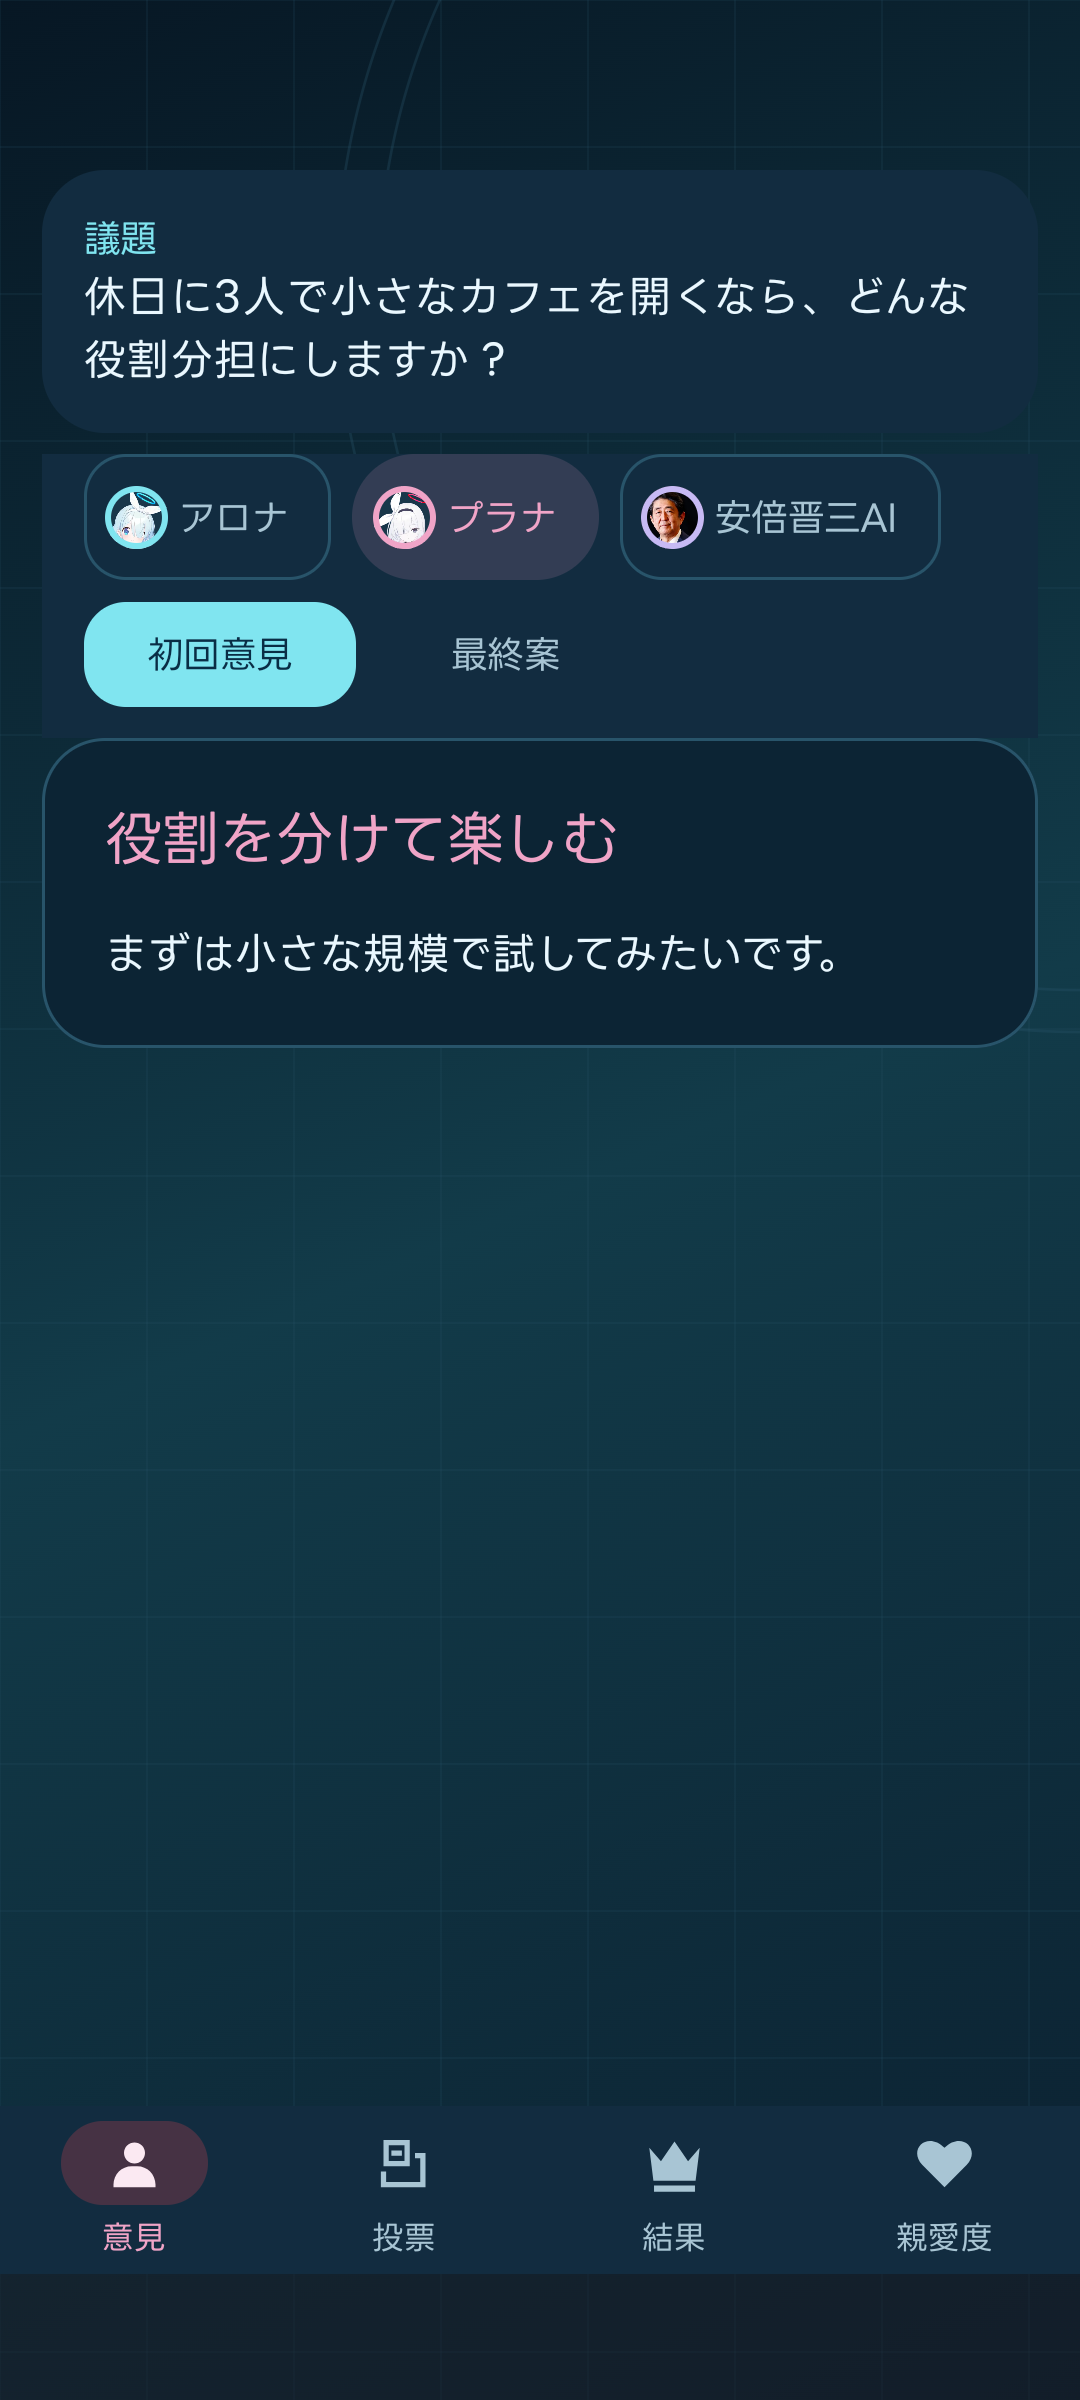
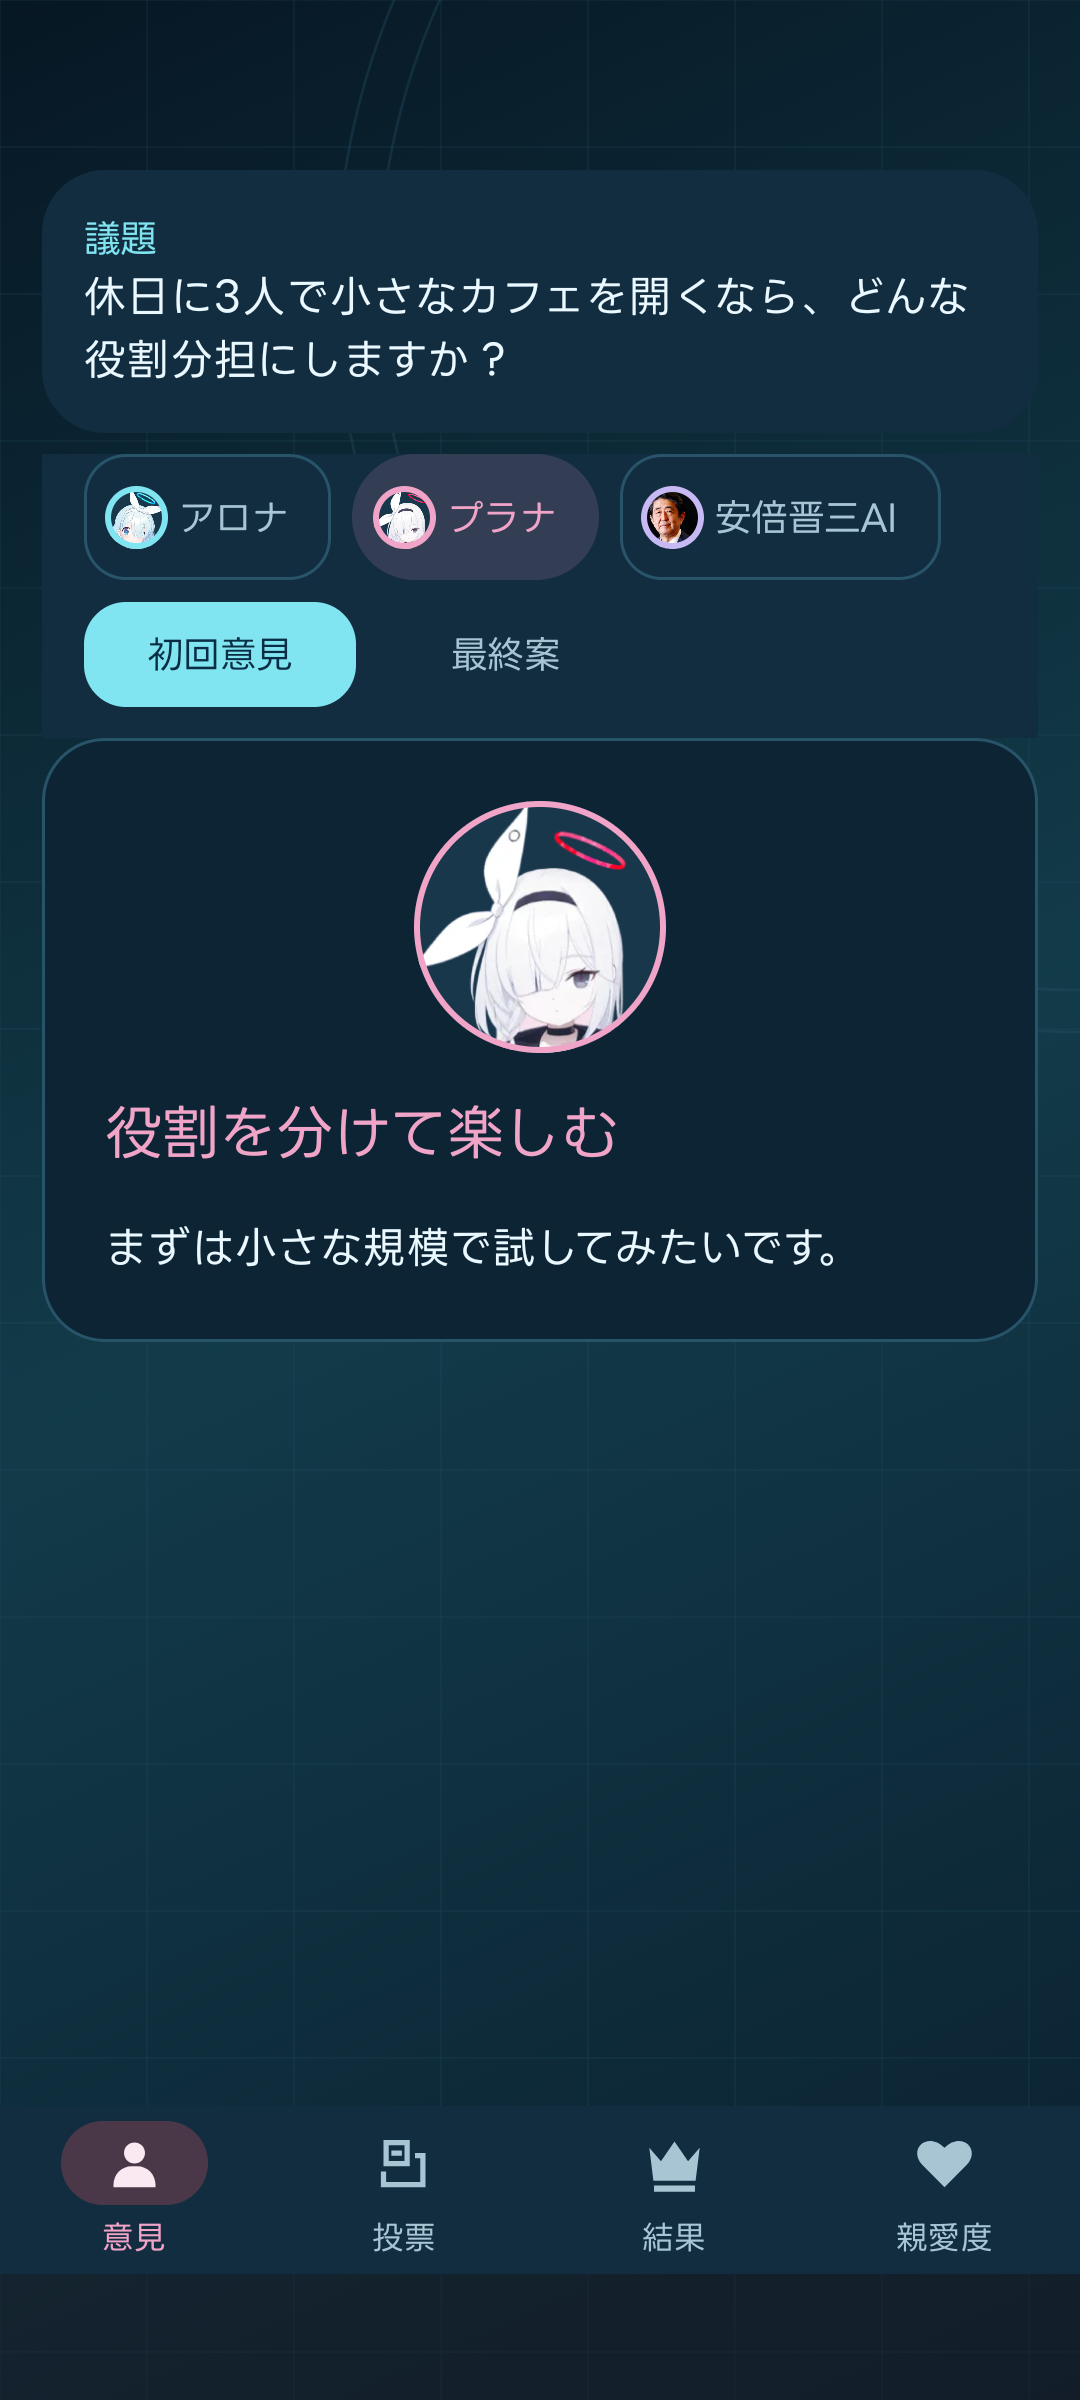
[codex] Android詳細の戻りスライドと意見カードの人物表示を改善 (#488)
## 変更内容

-
Androidの戻るボタンで詳細から一覧へ戻るとき、標準Adaptiveの画面遷移を約280msのスライドに変更しました。退場が終わるまで詳細を保持し、空欄への切替や長いspringの余韻を避けます。
- 詳細内の「保存済みの記録」を削除しました。更新中・更新失敗・保存失敗など必要な状態通知は維持します。
-
意見カードの内側へ、選択した人格の96dpの顔アイコンを追加しました。3人すべての初回意見・最終案に対応し、既存の人格slot／旧キャッシュの名前補完を再利用します。

## 安全性・互換性

前回は長い戻り遷移を避けるため確定時に即時切替していました。今回は待ち時間を固定した標準アニメーションへ調整し、一覧カードの選択色を狭幅では出さない処理を継続します。戻るジェスチャーの追従・取消、認可喪失や別記録への遷移後に古い戻りを適用しないガード、一覧の読位置と検索focus抑止を維持します。システムのアニメーション無効時は即時に戻ります。

API・認証・保存形式・差分同期・依存バージョン・Play掲載情報は変更しません。別件の未コミットのPlay審査用導線の文書は含めません。

## 検証

- API 36エミュレーターの全165試験成功（失敗・skipなし）
- 戻り途中の位置変化・完了後の選択解除・認可喪失・一覧の読位置維持を確認
- 3人の96dpアイコンと初回／最終切替、詳細の保存済みラベル削除を確認
- アニメーション無効設定で戻り試験を追加実行し成功
- `assembleDebug` / `assembleDebugAndroidTest` / `lintDebug` 成功
- `bundleRelease` / `lintRelease` 成功（検証用証明書、配布には未使用）
- Obsidian正本からの文書同期・mirror・文書整合・公開情報チェック・`git diff --check` 成功

## 架空データの画面資料

| 意見カード | 戻りスライド途中 |
|---|---|
|
![意見カード](https://raw.githubusercontent.com/pitekusu/shittim-chest/83f232e/apps/records-android/screenshots/detail-opinions-dark.png)
|
![戻りスライド途中](https://raw.githubusercontent.com/pitekusu/shittim-chest/83f232e/apps/records-android/screenshots/adaptive-back-slide-middle.png)
|

実機受入・マージ・Play内部テスト配布はこのPRでは未実施です。

diff --git a/apps/records-android/app/src/androidTest/java/dev/pitekusu/shittim/records/AdaptiveRecordsUiTest.kt b/apps/records-android/app/src/androidTest/java/dev/pitekusu/shittim/records/AdaptiveRecordsUiTest.kt
@@ -1,5 +1,6 @@
 package dev.pitekusu.shittim.records
 
+import android.animation.ValueAnimator
 import android.graphics.Bitmap
 import androidx.activity.BackEventCompat
 import androidx.activity.compose.setContent
@@ -212,7 +213,7 @@ class AdaptiveRecordsUiTest {
       .performClick().assertIsFocused()
   }
 
-  @Test fun threeButtonBackClearsSelectionWithoutWaitingForThePaneAnimation() {
+  @Test fun threeButtonBackSlidesBeforeClosingWithoutLeavingASelectedListCard() {
     val state = mutableStateOf(screen())
     val events = mutableListOf<BootstrapScreen.Event>()
     compose.activityRule.scenario.onActivity { it.setContent {
@@ -228,10 +229,24 @@ class AdaptiveRecordsUiTest {
       .config[SemanticsProperties.VerticalScrollAxisRange].value()
     compose.onNodeWithText(question).performClick()
     compose.waitForIdle()
+    val detailQuestion = "架空の議題：休日に楽しむ散歩と読書"
+    val detailLeft = compose.onNodeWithText(detailQuestion).fetchSemanticsNode().boundsInRoot.left
     compose.mainClock.autoAdvance = false
     try {
       compose.runOnIdle { compose.activity.onBackPressedDispatcher.onBackPressed() }
-      compose.mainClock.advanceTimeBy(64)
+      compose.mainClock.advanceTimeBy(96)
+      if (ValueAnimator.areAnimatorsEnabled()) {
+        compose.runOnIdle {
+          assertEquals(entries.last().recordId, state.value.selectedRecordId)
+          assertEquals(0, events.count { it == BootstrapScreen.Event.CloseRecord })
+        }
+        // A moving outgoing pane, not a frozen selected card or a placeholder flash.
+        assertTrue(compose.onNodeWithText(detailQuestion, useUnmergedTree = true)
+          .fetchSemanticsNode().boundsInRoot.left > detailLeft + 1f)
+        compose.onNodeWithText(compose.activity.getString(R.string.record_select)).assertDoesNotExist()
+        capture("adaptive-back-slide-middle")
+      }
+      compose.mainClock.advanceTimeBy(320)
       compose.runOnIdle {
         assertEquals(null, state.value.selectedRecordId)
         assertEquals(1, events.count { it == BootstrapScreen.Event.CloseRecord })
@@ -241,6 +256,26 @@ class AdaptiveRecordsUiTest {
       val restored = compose.onNodeWithTag("bootstrap-content").fetchSemanticsNode()
         .config[SemanticsProperties.VerticalScrollAxisRange].value()
       assertEquals(position, restored, .01f)
+      capture("adaptive-back-slide-complete")
+    } finally {
+      compose.mainClock.autoAdvance = true
+    }
+  }
+
+  @Test fun revocationDuringTheReturnSlideHidesTheRecordWithoutClosingANewDestination() {
+    val events = mutableListOf<BootstrapScreen.Event>()
+    val state = mutableStateOf(screen(entries.first().recordId, onEvent = events::add))
+    compose.activityRule.scenario.onActivity { it.setContent { BootstrapUi(state.value) } }
+    compose.mainClock.autoAdvance = false
+    try {
+      compose.runOnIdle { compose.activity.onBackPressedDispatcher.onBackPressed() }
+      compose.mainClock.advanceTimeBy(64)
+      compose.runOnIdle { state.value = BootstrapScreen.State(ThemeChoice.Dark) {} }
+      compose.mainClock.advanceTimeBy(400)
+      compose.onNodeWithText("架空の議題：休日に楽しむ散歩と読書").assertDoesNotExist()
+      if (ValueAnimator.areAnimatorsEnabled()) {
+        compose.runOnIdle { assertEquals(0, events.count { it == BootstrapScreen.Event.CloseRecord }) }
+      }
     } finally {
       compose.mainClock.autoAdvance = true
     }

diff --git a/apps/records-android/app/src/androidTest/java/dev/pitekusu/shittim/records/RecordPreviewPanelTest.kt b/apps/records-android/app/src/androidTest/java/dev/pitekusu/shittim/records/RecordPreviewPanelTest.kt
@@ -44,7 +44,7 @@ class RecordPreviewPanelTest {
   @Test
   fun oneRecordAndRetryAreVisibleWithoutShowingOldBodyInErrorState() {
     val state = mutableStateOf<RecordPreviewState>(RecordPreviewState.Ready(
-      RecordPreview("架空の議題", "架空の結論", "アロナ")))
+      RecordPreview("架空の議題", "架空の結論", "アロナ"), saved = true))
     val events = mutableListOf<BootstrapScreen.Event>()
     compose.activityRule.scenario.onActivity { activity ->
       activity.setContent { ShittimTheme(false) { RecordDetailScreen(state.value, "sample", events::add) } }
@@ -58,6 +58,7 @@ class RecordPreviewPanelTest {
     compose.onNodeWithText("架空の議題").assertIsDisplayed()
     compose.onNodeWithText("アロナ").assertIsDisplayed()
     compose.onNodeWithText("架空の結論").assertIsDisplayed()
+    compose.onNodeWithText(label(R.string.record_saved)).assertDoesNotExist()
     compose.runOnIdle { state.value = RecordPreviewState.Error(RecordReadFailure.UNAVAILABLE) }
     compose.onNodeWithText("架空の議題").assertDoesNotExist()
     compose.onNodeWithText(label(R.string.record_retry)).performClick()
@@ -94,6 +95,14 @@ class RecordPreviewPanelTest {
         }
       }
       compose.onNodeWithText("要約${index + 1}").assertExists()
+      val slot = listOf("participant-a", "participant-b", "participant-c")[index]
+      compose.onNodeWithTag("opinion-avatar-$slot").assertExists()
+      val avatar = compose.onNodeWithTag("opinion-avatar-$slot").fetchSemanticsNode()
+      val expectedSize = with(compose.density) { 96.dp.toPx() }
+      assertEquals(expectedSize, avatar.size.width.toFloat(), 1f)
+      assertEquals(expectedSize, avatar.size.height.toFloat(), 1f)
+      compose.onNodeWithText(label(R.string.record_final_proposal)).performClick()
+      compose.onNodeWithTag("opinion-avatar-$slot").assertExists()
     }
   }
 

diff --git a/apps/records-android/app/src/main/java/dev/pitekusu/shittim/records/AdaptiveRecordsUi.kt b/apps/records-android/app/src/main/java/dev/pitekusu/shittim/records/AdaptiveRecordsUi.kt
@@ -1,6 +1,9 @@
 package dev.pitekusu.shittim.records
 
+import android.animation.ValueAnimator
 import androidx.activity.compose.PredictiveBackHandler
+import androidx.compose.animation.core.FastOutSlowInEasing
+import androidx.compose.animation.core.tween
 import androidx.compose.foundation.layout.Arrangement
 import androidx.compose.foundation.layout.Box
 import androidx.compose.foundation.layout.BoxWithConstraints
@@ -100,10 +103,14 @@ internal fun AdaptiveRecordsUi(
         // A completed gesture must not close another record or act after authentication is lost.
         if (selectedAtStart != null && currentState.value.canReadRecords &&
           currentState.value.selectedRecordId == selectedAtStart) {
-          // Commit selection immediately, not after a long spatial spring. In particular a
-          // three-button Back has no gesture progress and must not spend half a second
-          // showing the selected list card while the panes settle.
-          scaffoldState.snapTo(listValue)
+          // Keep the outgoing detail until its short slide finishes, rather than swapping
+          // it for a placeholder. A bounded tween avoids the old long spring tail;
+          // the compact list never renders a selected-card highlight during the return.
+          if (ValueAnimator.areAnimatorsEnabled()) {
+            scaffoldState.animateTo(listValue,
+              animationSpec = tween(280, easing = FastOutSlowInEasing),
+              isPredictiveBackInProgress = true)
+          } else scaffoldState.snapTo(listValue)
           if (currentState.value.canReadRecords && currentState.value.selectedRecordId == selectedAtStart) {
             currentState.value.eventSink(BootstrapScreen.Event.CloseRecord)
           } else scaffoldState.snapTo(currentValue.value)

diff --git a/apps/records-android/app/src/main/java/dev/pitekusu/shittim/records/RecordOpinionContent.kt b/apps/records-android/app/src/main/java/dev/pitekusu/shittim/records/RecordOpinionContent.kt
@@ -1,6 +1,7 @@
 package dev.pitekusu.shittim.records
 
 import androidx.compose.foundation.layout.Arrangement
+import androidx.compose.foundation.layout.Box
 import androidx.compose.foundation.layout.Column
 import androidx.compose.foundation.layout.FlowRow
 import androidx.compose.foundation.layout.fillMaxWidth
@@ -16,11 +17,13 @@ import androidx.compose.material3.MaterialTheme
 import androidx.compose.material3.Surface
 import androidx.compose.material3.Text
 import androidx.compose.runtime.Composable
+import androidx.compose.ui.Alignment
 import androidx.compose.ui.Modifier
 import androidx.compose.ui.platform.testTag
 import androidx.compose.ui.res.stringResource
 import androidx.compose.ui.unit.dp
 import dev.pitekusu.shittim.records.ui.ShittimParticipantAvatar
+import dev.pitekusu.shittim.records.ui.participantVisualSlot
 import dev.pitekusu.shittim.records.ui.shittimParticipantColor
 import com.mikepenz.markdown.model.MarkdownState
 
@@ -58,6 +61,11 @@ internal fun RecordOpinionControls(opinions: List<RecordOpinion>, selected: Int,
 
 @Composable
 internal fun RecordOpinionContent(opinion: RecordOpinion, final: Boolean, markdownState: MarkdownState) {
+  Box(Modifier.fillMaxWidth(), contentAlignment = Alignment.Center) {
+    ShittimParticipantAvatar(opinion.participantName, opinion.participantSlot, size = 96.dp,
+      modifier = Modifier.testTag("opinion-avatar-${participantVisualSlot(opinion.participantName,
+        opinion.participantSlot) ?: "unknown"}"))
+  }
   Text(if (final) opinion.finalTitle else opinion.summary,
     style = MaterialTheme.typography.titleLargeEmphasized,
     color = shittimParticipantColor(opinion.participantName, opinion.participantSlot))

diff --git a/apps/records-android/app/src/main/java/dev/pitekusu/shittim/records/RecordPreviewPanel.kt b/apps/records-android/app/src/main/java/dev/pitekusu/shittim/records/RecordPreviewPanel.kt
@@ -1,7 +1,6 @@
 package dev.pitekusu.shittim.records
 
 import androidx.compose.material3.Button
-import androidx.compose.material3.MaterialTheme
 import androidx.compose.material3.Text
 import androidx.compose.runtime.Composable
 import androidx.compose.ui.res.stringResource
@@ -41,7 +40,6 @@ internal fun RecordPreviewPanel(state: RecordPreviewState, onEvent: (BootstrapSc
         }
       }
       is RecordPreviewState.Ready -> {
-        if (state.saved) Text(stringResource(R.string.record_saved), color = MaterialTheme.colorScheme.primary)
         if (state.updating) Text(stringResource(R.string.record_refreshing))
         if (state.refreshFailure != null) Text(stringResource(if (state.refreshFailure == RecordReadFailure.STORAGE_UNAVAILABLE)
           R.string.record_save_failed else R.string.record_refresh_failed))

diff --git a/apps/records-android/app/src/androidTest/java/dev/pitekusu/shittim/records/OfflineRecordsUiTest.kt b/apps/records-android/app/src/androidTest/java/dev/pitekusu/shittim/records/OfflineRecordsUiTest.kt
@@ -54,7 +54,7 @@ class OfflineRecordsUiTest {
     for ((name, isDark, isLarge) in listOf(Triple("offline-light", false, false),
       Triple("offline-dark", true, false), Triple("offline-large-text", true, true))) {
       compose.runOnIdle { dark.value = isDark; large.value = isLarge }
-      compose.onNodeWithText(label(R.string.record_saved)).assertIsDisplayed()
+      compose.onNodeWithText(label(R.string.record_saved)).assertDoesNotExist()
       compose.onNodeWithText(label(R.string.record_refresh_failed)).assertIsDisplayed()
       compose.onAllNodes(hasClickAction()).assertCountEquals(0)
       compose.onNodeWithText("一覧に戻る").assertDoesNotExist()
